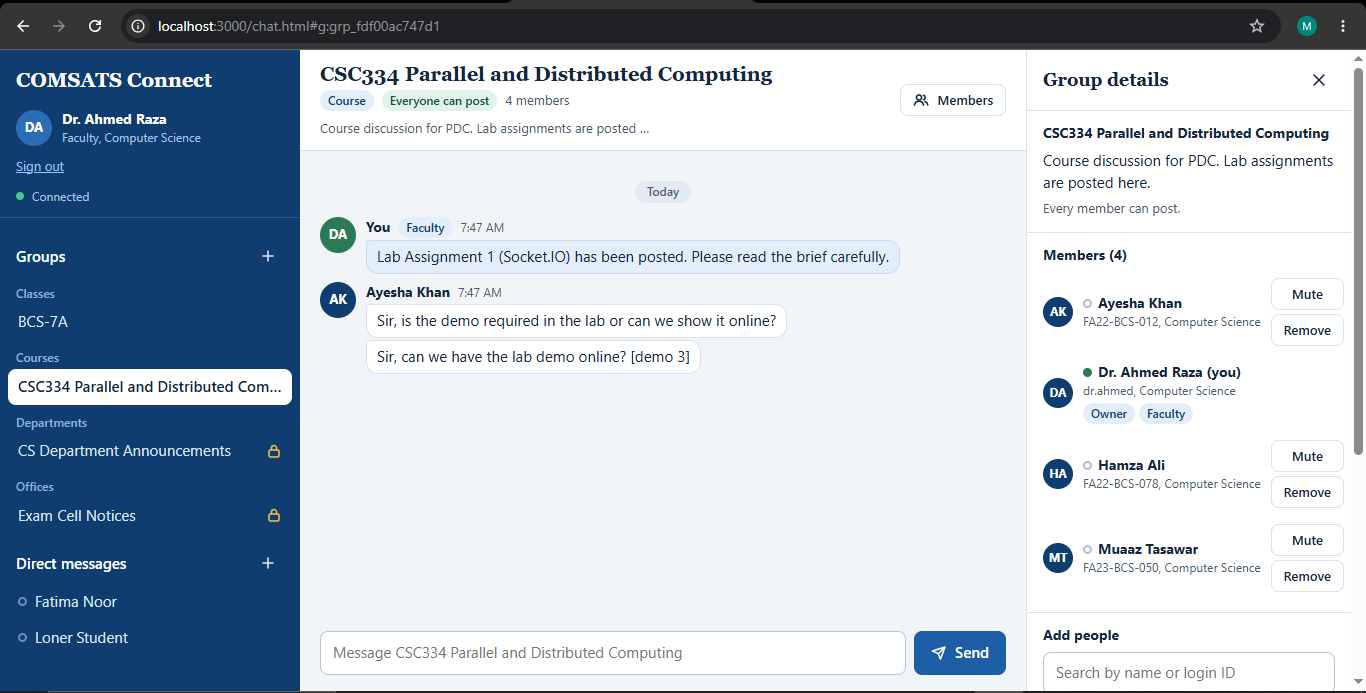
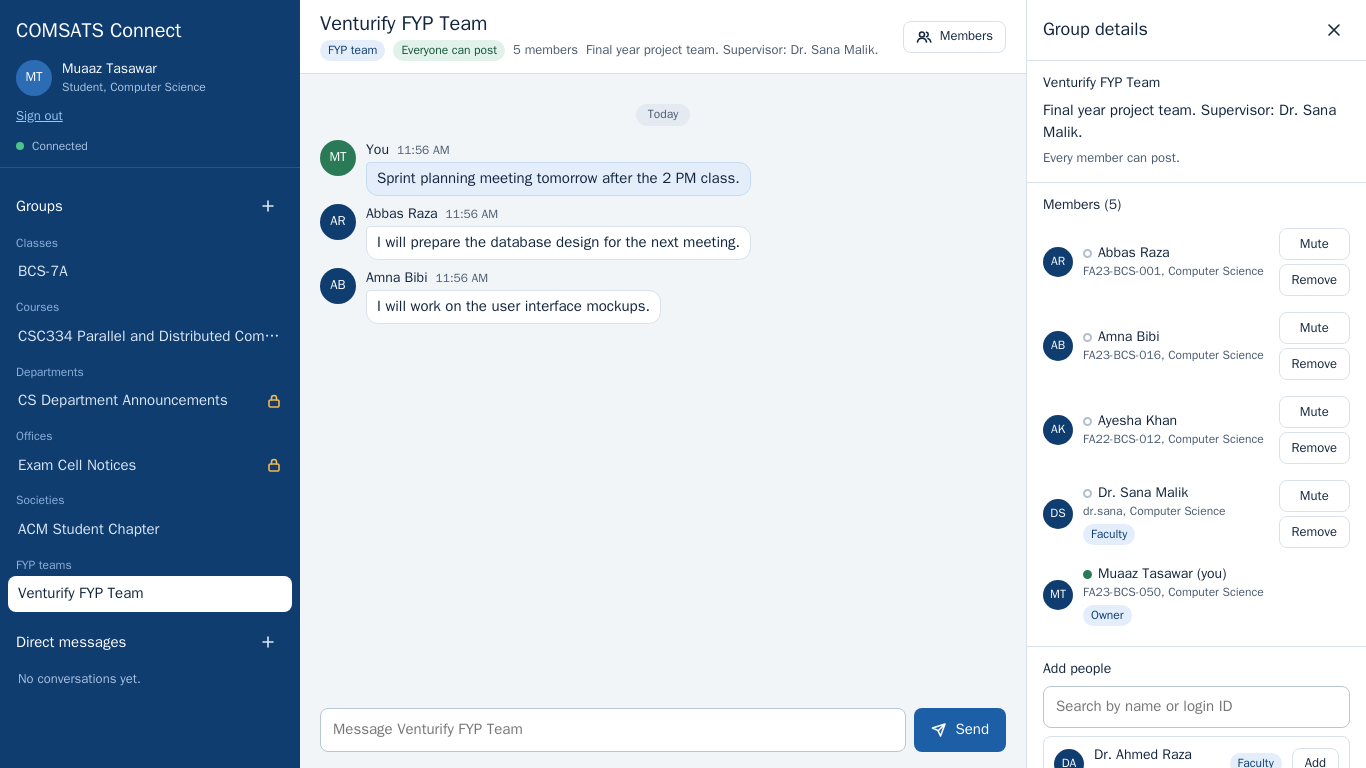
Update outdated chat gallery screenshots in README

diff --git a/README.md b/README.md
@@ -147,11 +147,11 @@ A student opening "Create a group" is offered only Society and FYP team. The "Wh
 
 ### Direct message boundary
 
-Muaaz and Usman Raza are both in the read-only Exam Cell Notices group, but they share no open group. A read-only notice board does not make two students contacts, so the server refuses the message and the page shows the reason. The earlier "Hi!" in the same chat was sent before this rule was tightened.
+Muaaz Tasawar and Usman Raza share the read-only Exam Cell Notices group, and sharing that group is what makes them contacts, so the server accepts the message. A student can reach anyone they share a group with, or anyone who has written to them first.
 
-![Direct message blocked because no open group is shared](docs/screenshots/08-dm-blocked-no-open-group.png)
+![Direct message to a student who shares a group](docs/screenshots/08-dm-shared-group.png)
 
-A student with no groups at all is blocked the same way.
+A student who has no groups at all shares nothing with anybody, so the server refuses the message and the page shows the reason.
 
 ![Direct message blocked for a student with no shared group](docs/screenshots/09-dm-blocked-stranger.png)
 
@@ -179,9 +179,9 @@ The member list shows the group owner, admins, and muted members, with Mute, Unm
 
 ### Deactivating a user
 
-Deactivation asks for confirmation. The user is signed out right away and cannot sign in again until reactivated.
+The Deactivate button asks for a confirmation first. Once it is confirmed the user is signed out right away, the row turns **Deactivated** and the button becomes **Activate**; they cannot sign in again until an admin reactivates them.
 
-![Deactivate confirmation](docs/screenshots/14-admin-deactivate-confirm.png)
+![A deactivated user in the admin console](docs/screenshots/14-admin-deactivate-confirm.png)
 
 ### Creating a group as an admin
 
